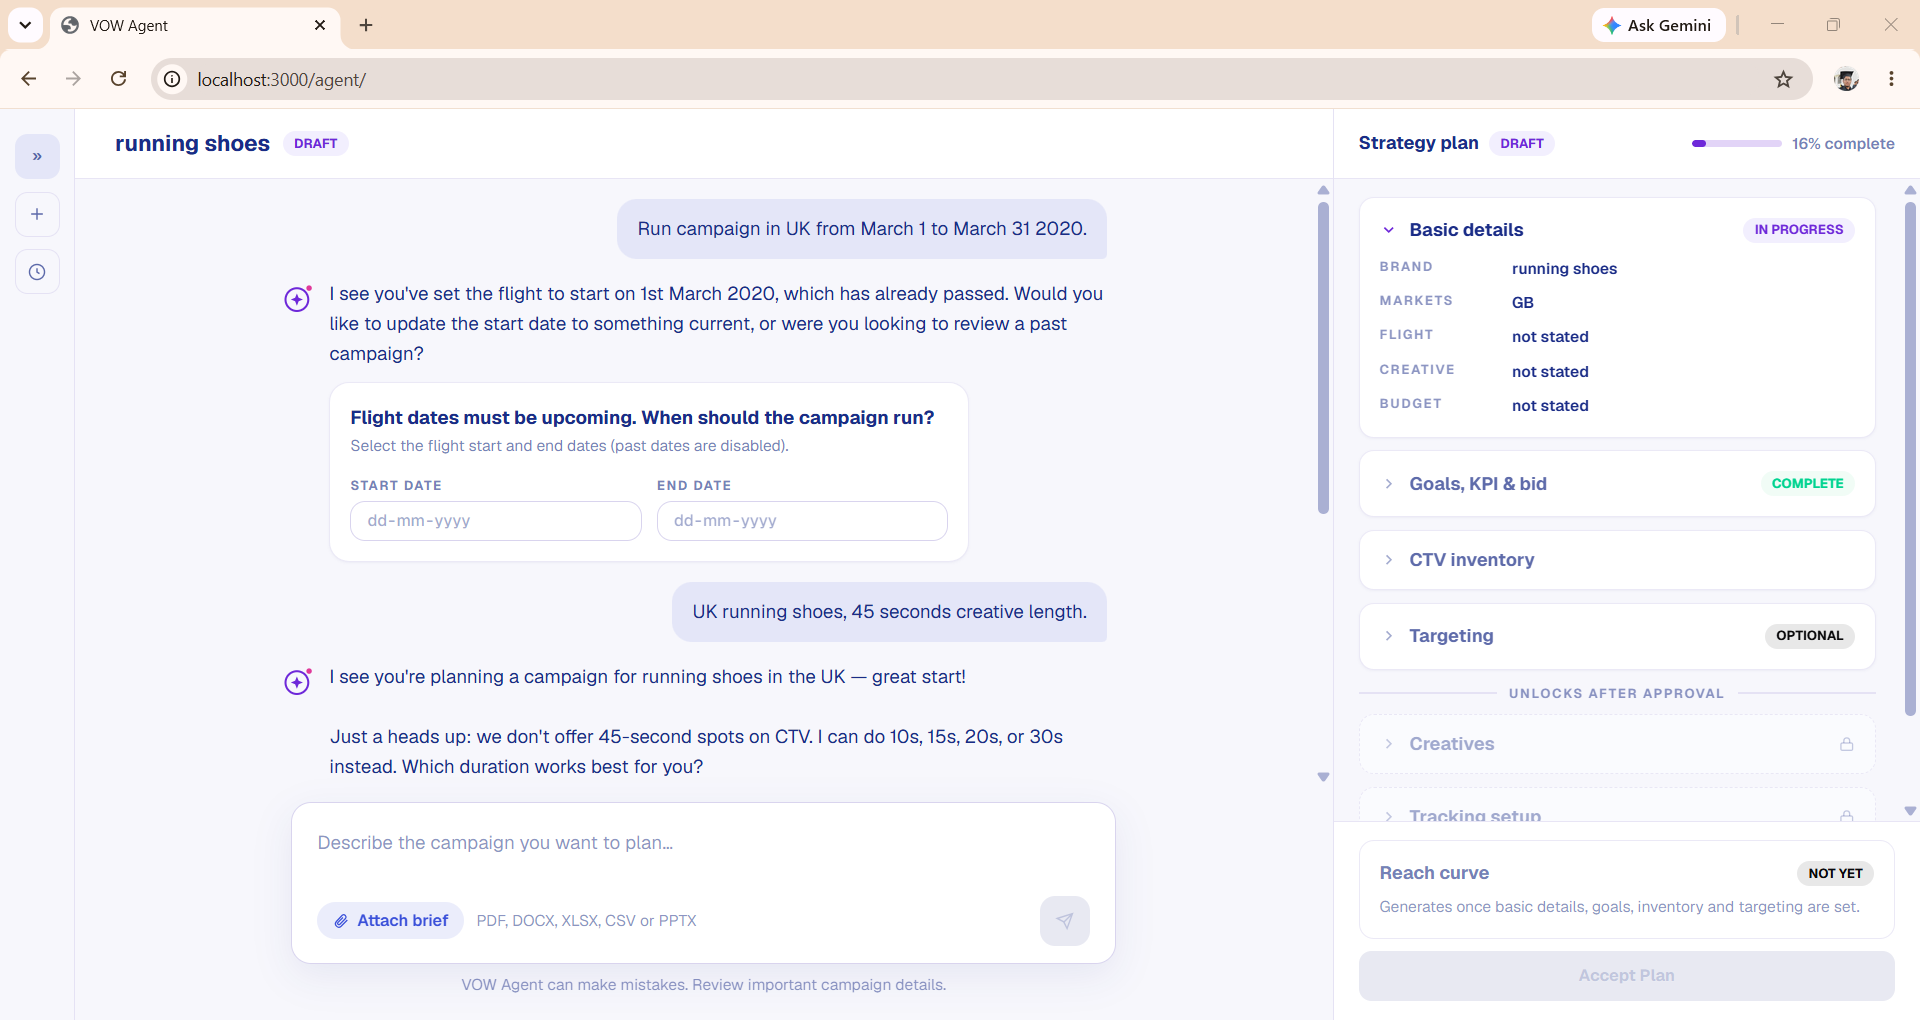
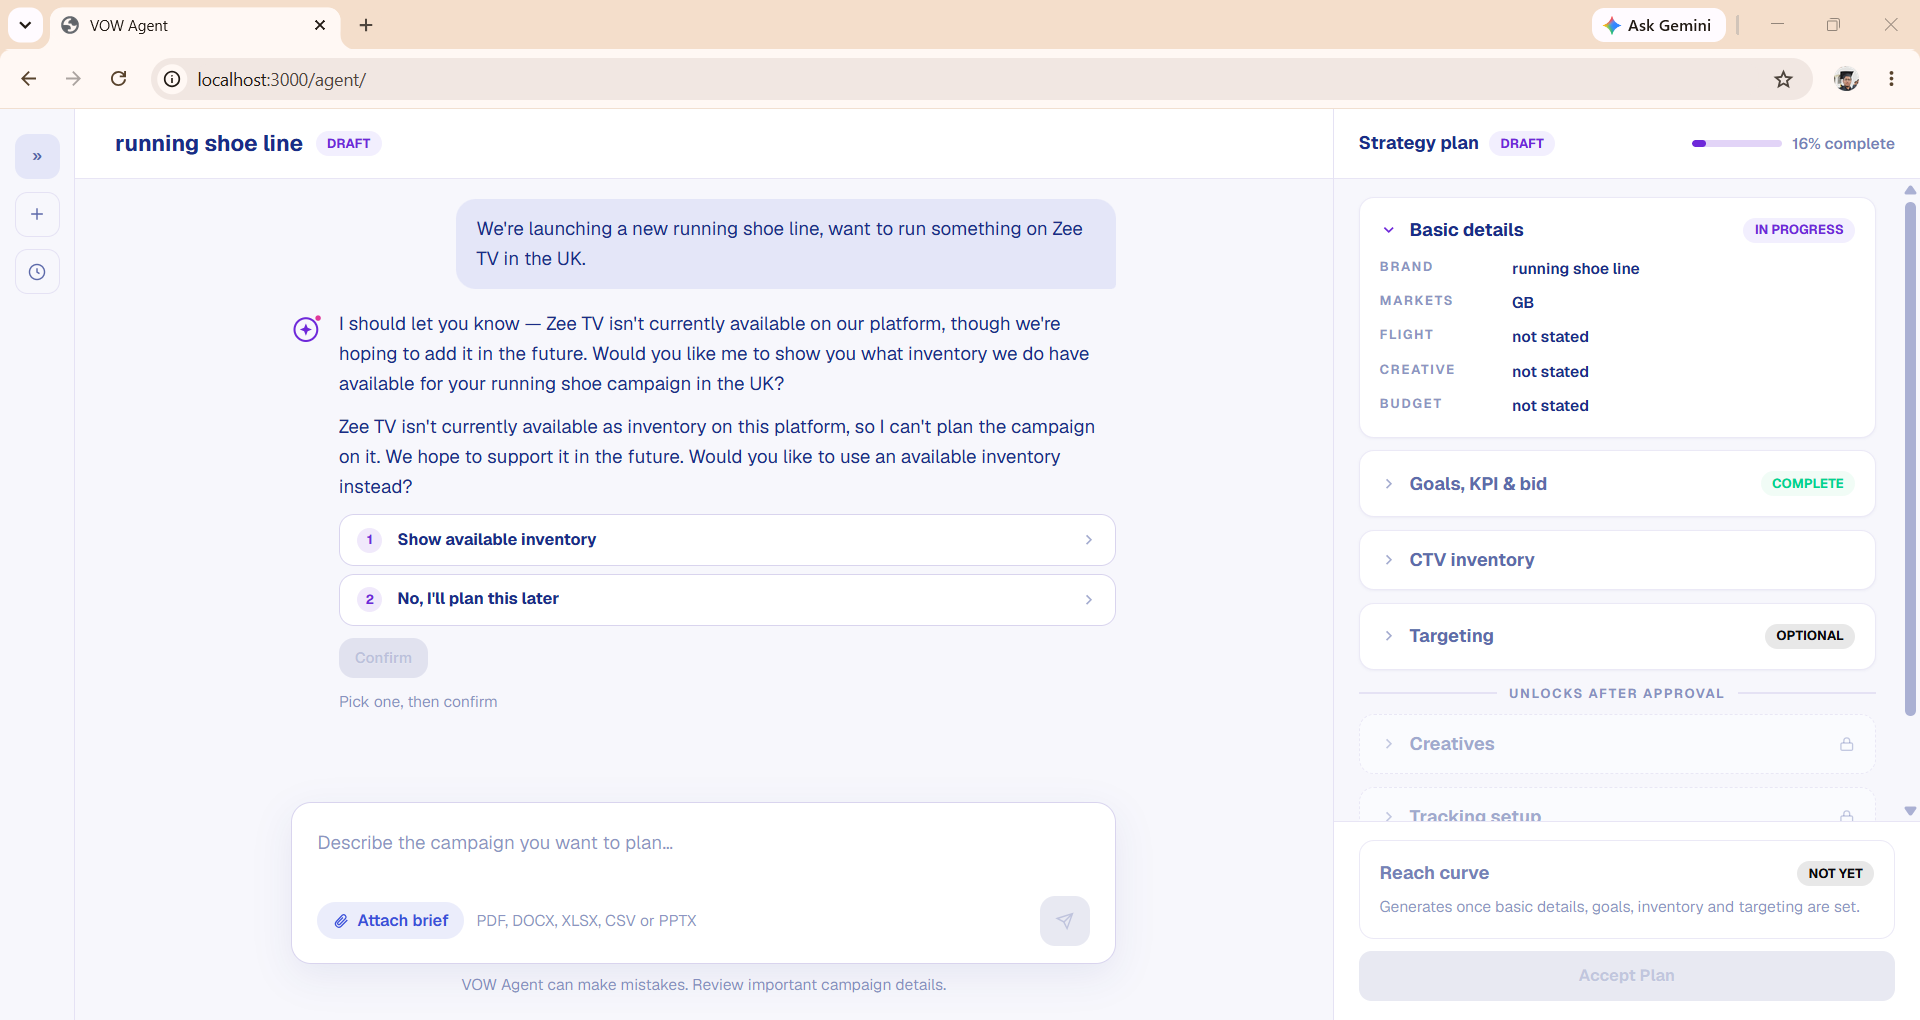
fix(frontend): remove duplicate prompt prose when interactive blocks are returned

diff --git a/frontend/src/lib/agent/http-agent-client.ts b/frontend/src/lib/agent/http-agent-client.ts
@@ -1,0 +1,311 @@
+import { ElicitationConflictError } from "@/lib/agent/errors";
+import type {
+  AgentClient,
+  AgentReply,
+  AgentRequest,
+  SendOptions,
+} from "@/lib/agent/types";
+import type {
+  WireBlock,
+  WireChatRequest,
+  WireChatResponse,
+  WireElicitationAnswer,
+  WireElicitationConflictBody,
+  WireOptionsBlock,
+} from "@/lib/agent/wire";
+import { ApiError, createHttpClient } from "@/lib/api";
+import { blocksToPlainText, textBlock } from "@/lib/chat";
+import type { AppConfig } from "@/lib/config";
+import { createId } from "@/lib/utils";
+import type {
+  ElicitationAnswer,
+  ElicitationStatus,
+  MessageBlock,
+  OptionsBlock,
+  UserBlock,
+} from "@/types/chat";
+
+export interface HttpAgentClientOptions {
+  /** Injectable for tests; defaults to the global fetch. */
+  fetchImpl?: typeof fetch;
+}
+
+// TEMP: hardcoded advertiser context. Map to the host's real advertiser later.
+const ADVERTISER_ID = "dev-advertiser-0001";
+
+const STATUSES: ElicitationStatus[] = [
+  "pending",
+  "answered",
+  "superseded",
+  "expired",
+];
+
+/** Anything unrecognized fails closed: a dead row must never look answerable. */
+function toStatus(value: string): ElicitationStatus {
+  return STATUSES.find((status) => status === value) ?? "expired";
+}
+
+function toEpoch(value: string | null | undefined): number | null {
+  if (!value) return null;
+  const parsed = Date.parse(value);
+  return Number.isNaN(parsed) ? null : parsed;
+}
+
+function toAnswer(
+  wire: WireElicitationAnswer | null | undefined,
+): ElicitationAnswer | null {
+  if (!wire) return null;
+  return {
+    selectedOptionIds: wire.selected_option_ids ?? [],
+    customText: wire.custom_text ?? null,
+    answeredAt: toEpoch(wire.answered_at),
+  };
+}
+
+/**
+ * Fields are copied one by one rather than spread, so a model-facing `value` a
+ * server sends anyway cannot cross the boundary into the app.
+ */
+function toOptionsBlock(wire: WireOptionsBlock): OptionsBlock {
+  return {
+    type: "options",
+    id: wire.id,
+    prompt: wire.prompt,
+    select: wire.select === "multi" ? "multi" : "single",
+    options: (wire.options ?? []).map((option) => ({
+      id: option.id,
+      label: option.label,
+      description: option.description ?? null,
+      badge: option.badge ?? null,
+    })),
+    allowCustom: wire.allow_custom ?? false,
+    customPlaceholder: wire.custom_placeholder ?? null,
+    status: toStatus(wire.status),
+    answer: toAnswer(wire.answer),
+  };
+}
+
+/** Unknown block types map to null and are dropped, so a block this client does
+ *  not understand degrades to "not rendered" instead of breaking the turn. */
+function toDomainBlock(wire: WireBlock): MessageBlock | null {
+  switch (wire.type) {
+    case "text":
+      return textBlock(wire.text);
+    case "options":
+      return toOptionsBlock(wire);
+    case "options_response":
+      return {
+        type: "options_answer",
+        elicitationId: wire.elicitation_id,
+        selectedOptionIds: wire.selected_option_ids ?? [],
+        customText: wire.custom_text ?? null,
+      };
+    default:
+      return null;
+  }
+}
+
+function backendBlockToDomainBlock(block: any): MessageBlock | null {
+  if (!block) return null;
+
+  if (
+    block.interaction === "input_date_range" ||
+    block.layout === "date_range_picker" ||
+    block.field === "flight_dates"
+  ) {
+    return {
+      type: "date_picker",
+      id: block.field || createId(),
+      prompt: block.text || "When should the campaign run?",
+      earliest: block.data?.earliest || new Date().toISOString().split("T")[0],
+      status: "pending",
+    };
+  }
+
+  if (
+    block.interaction === "select_one" ||
+    block.interaction === "select_many" ||
+    block.interaction === "confirm"
+  ) {
+    let rawOptions = block.data?.options ?? [];
+    if (
+      rawOptions.length === 0 &&
+      block.data?.rows &&
+      Array.isArray(block.data.rows)
+    ) {
+      rawOptions = block.data.rows.map((row: any) => ({
+        value: row.provider
+          ? `${row.provider}${row.genre && row.genre !== "Run of service" ? ` (${row.genre})` : ""}`
+          : row.value || row.label,
+        label: row.provider
+          ? `${row.provider}${row.genre && row.genre !== "Run of service" ? ` (${row.genre})` : ""}`
+          : row.label || row.value,
+        description: `Indicative CPM: £${row.cpm}${row.lengths ? ` (${row.lengths})` : ""}${row.tier ? ` · ${row.tier}` : ""}`,
+        badge: row.tier?.includes("Amazon") ? "Amazon-owned" : null,
+        recommended: Boolean(row.selected),
+      }));
+    }
+
+    const options = rawOptions.map((opt: any) => {
+      let desc = opt.sublabel || opt.description || null;
+      if (opt.metrics && typeof opt.metrics === "object") {
+        const metricStr = Object.entries(opt.metrics)
+          .filter(([, v]) => v != null)
+          .map(([k, v]) => `${k}: ${v}`)
+          .join(" • ");
+        desc = desc ? `${desc} (${metricStr})` : metricStr;
+      }
+      return {
+        id: String(opt.value || opt.id || opt.label),
+        label: String(opt.label || opt.name || opt.value),
+        description: desc,
+        badge: opt.badge || (opt.recommended ? "Recommended" : null),
+      };
+    });
+
+    if (options.length > 0) {
+      return {
+        type: "options",
+        id: block.field || createId(),
+        prompt: block.text || "Please select an option:",
+        select: block.interaction === "select_many" ? "multi" : "single",
+        options,
+        allowCustom: false,
+        status: "pending",
+      };
+    }
+  }
+  return textBlock(block.text);
+}
+
+/** Blocks when the server speaks them, else the legacy `reply` string. */
+function toReplyBlocks(payload: WireChatResponse): MessageBlock[] {
+  if (payload.blocks && Array.isArray(payload.blocks) && payload.blocks.length > 0) {
+    const converted = payload.blocks
+      .map(backendBlockToDomainBlock)
+      .filter((block): block is MessageBlock => block !== null);
+    if (converted.length > 0) {
+      return converted;
+    }
+  }
+  const blocks = (payload.message?.content ?? [])
+    .map(toDomainBlock)
+    .filter((block): block is MessageBlock => block !== null);
+  if (blocks.length) return blocks;
+  return payload.reply ? [textBlock(payload.reply)] : [];
+}
+
+/** Convert the always-present plan_state map to the planRows array format. */
+function extractPlanState(
+  payload: WireChatResponse,
+): Array<{ label: string; value: string; field: string }> | undefined {
+  const planState = payload.plan_state;
+  if (!planState || Object.keys(planState).length === 0) return undefined;
+
+  // Label map matching the Strategy Schema sections.
+  const LABELS: Record<string, string> = {
+    brand: "Brand",
+    markets: "Markets",
+    flight_dates: "Flight",
+    durations: "Creative durations",
+    market_budgets: "Budget",
+    goal: "Goal",
+    kpi: "KPI",
+    bid: "Bid",
+    inventory: "CTV inventory",
+    audience: "Audience profile",
+    targeting: "Targeting",
+  };
+
+  return Object.entries(planState)
+    .filter(([field]) => field in LABELS)
+    .map(([field, value]) => ({
+      field,
+      label: LABELS[field] ?? field,
+      value,
+    }));
+}
+
+function toWireBlock(block: UserBlock): WireBlock {
+  if (block.type === "text") return { type: "text", text: block.text };
+  return {
+    type: "options_response",
+    elicitation_id: block.elicitationId,
+    selected_option_ids: block.selectedOptionIds,
+    custom_text: block.customText ?? null,
+  };
+}
+
+/** 409 → a typed domain error. An unrecognizable body stays an `ApiError`. */
+function asConflict(cause: unknown): ElicitationConflictError | null {
+  if (!(cause instanceof ApiError) || cause.status !== 409) return null;
+  const body = cause.body as WireElicitationConflictBody | undefined;
+  if (!body?.elicitation) return null;
+  return new ElicitationConflictError(toOptionsBlock(body.elicitation), {
+    requestId: cause.requestId,
+    cause,
+  });
+}
+
+/**
+ * The FastAPI transport. `AgentRequest`/`AgentReply` ↔ wire mapping lives here
+ * and nowhere else, so the rest of the app stays ignorant of the wire format.
+ *
+ * The backend keeps conversation state server-side, keyed by `session_id`. One
+ * client instance is one conversation — it mints the id once below and reuses it
+ * for every turn, so the one-instance-per-mount lifecycle in
+ * `agent-client-context.tsx` is what gives a new chat a new session.
+ */
+export function createHttpAgentClient(
+  cfg: AppConfig,
+  options: HttpAgentClientOptions = {},
+): AgentClient {
+  const http = createHttpClient({
+    baseUrl: cfg.apiBaseUrl,
+    timeoutMs: cfg.requestTimeoutMs,
+    fetchImpl: options.fetchImpl,
+  });
+
+  // TEMP: minted locally because the endpoint that issues a session id isn't
+  // live yet. Swap for the server-issued id once that lands.
+  const sessionId = createId();
+
+  return {
+    async send(
+      request: AgentRequest,
+      sendOptions?: SendOptions,
+    ): Promise<AgentReply> {
+      // `message` is the plain-text projection today's backend reads. It covers
+      // text blocks only, so an answer-only turn omits it rather than pushing
+      // option labels into a field that becomes prompt context.
+      const body: WireChatRequest = {
+        session_id: sessionId,
+        client_message_id: request.clientMessageId,
+        message: blocksToPlainText(request.content) || undefined,
+        content: request.content.map(toWireBlock),
+      };
+
+      let payload: WireChatResponse;
+      try {
+        payload = await http.request<WireChatResponse>("/sessions/chat", {
+          method: "POST",
+          body,
+          headers: { "Vowmade-Advertiser-Id": ADVERTISER_ID },
+          signal: sendOptions?.signal,
+        });
+      } catch (cause) {
+        throw asConflict(cause) ?? cause;
+      }
+
+      return {
+        messageId: payload.message?.id,
+        content: toReplyBlocks(payload),
+        stage: payload.stage ?? null,
+        resolvedElicitations: (payload.resolved_elicitations ?? []).map(
+          toOptionsBlock,
+        ),
+        planRows: extractPlanState(payload),
+      };
+    },
+  };
+}
